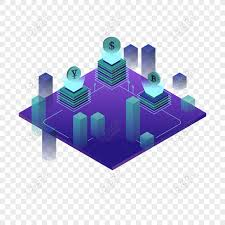
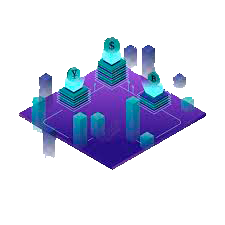
Section 3 add with design error

diff --git a/client/index.html b/client/index.html
@@ -25,7 +25,7 @@
         </div>
     </div>
       <!-- End section one-->
-    <div class="container mx-auto flex flex-col justify-between bg-no-repeat bg-top bg-[url('./src/SectionOne.jpg')] h-[32rem]">
+    <div class="container mb-[18rem] mx-auto flex flex-col justify-between bg-no-repeat bg-top bg-[url('./src/SectionOne.jpg')] h-[32rem]">
         
         <div>
             <div class="flex justify-center mt-[18rem]">
@@ -34,12 +34,14 @@
         </div>    
         <!--Section Two-->
 
-        <div class="flex mt-[6rem] bg-[#e2f3fd]">
-            <div class="w-1/2 h-[14rem] ml-[2rem] flex flex-col justify-center">
-                <h1 class="text-3xl font-semibold">Who we Are?</h1>
+        <div class="flex mt-[6rem]">
+            <div class="w-1/2 ml-[2rem] flex flex-col justify-center  bg-[#e2f3fd]">
+                <h1 class="pt-[8rem] text-3xl font-semibold">Who we Are?</h1>
+                <p class="mt-[1rem] text-xl">Lorem, ipsum dolor sit amet consectetur adipisicing elit. In, error officiis! Nostrum aliquam perferendis qui. Suscipit, reiciendis voluptatibus eaque ullam delectus, accusamus nobis quidem culpa labore, ducimus recusandae magnam cum?</p>
+                <p class="mt-[1rem] text-xl">Lorem, ipsum dolor sit amet consectetur adipisicing elit. In, error officiis! Nostrum aliquam perferendis qui. Suscipit, reiciendis voluptatibus eaque ullam delectus, accusamus nobis quidem culpa labore, ducimus recusandae magnam cum?</p>
                 <p class="mt-[1rem] text-xl">Lorem, ipsum dolor sit amet consectetur adipisicing elit. In, error officiis! Nostrum aliquam perferendis qui. Suscipit, reiciendis voluptatibus eaque ullam delectus, accusamus nobis quidem culpa labore, ducimus recusandae magnam cum?</p>
             </div>
-            <div class="w-1/2 relative flex justify-end ">
+            <div class="w-1/2 relative flex justify-end  bg-[#e2f3fd]">
                 <img class="absolute bottom-[0rem] right-3" src="./src/imgSection2.png" alt="Section Two Image">
             </div>
         </div>
@@ -48,17 +50,37 @@
     </div>
     <!-- Section Three-->
 
-        <div class="flex bg-no-repeat bg-top bg-[url('./src/Section3Final.jpg')] min-h-[12rem] mt-[9rem]">
-           <div class="pt-[8rem] pl-[15rem]">
-             <img src="./src/BlockSection3.png" alt="">
-           </div>
-           <div>
-            <h1 class="text-4xl text-white">What technology do we</h1>
-           </div>
-           
+        <div class="bg-no-repeat bg-top bg-[url('./src/Section3Final.jpg')] min-h-[25rem] mt-[9rem]">   
+
+            <div class="pt-[8rem]">
+                <img src="./src/blockchain2.png" class="w-[25rem] h-[25rem]" alt="">
+            </div>
+
         </div>
 
     <!-- End Section Three-->
 </body>
 </html>
-<!--bottom-[0.50rem] left-[60rem]-->
+<!--bottom-[0.50rem] left-[60rem]
+
+    <div class="w-2/4 pt-[15rem]">
+                    <div class="bg-[#000022]">
+                        <h1 class="text-4xl text-white">What technology do we</h1>
+                        <div class=" pt-8">
+                            <div class="flex justify-between">
+                                <img class="w-[5rem] h-5rem]" src="./src/BTC.png"m] alt="">
+                                <p class="text-white ml-4">Lorem, ipsum dolor sit amet consectetur adipisicing elit. In, error officiis! Nostrum aliquam perferendis qui. Suscipit, reiciendis voluptatibus eaque ullam delectus, accusamus nobis quidem culpa labore, ducimus recusandae magnam cum?</p>
+                            </div>
+                            <div class="flex justify-between mt-3">
+                                <img class="w-[5rem] h-[5rem]" src="./src/ETH.png" alt="">
+                                <p class="text-white ml-4">Lorem, ipsum dolor sit amet consectetur adipisicing elit. In, error officiis! Nostrum aliquam perferendis qui. Suscipit, reiciendis voluptatibus eaque ullam delectus, accusamus nobis quidem culpa labore, ducimus recusandae magnam cum?</p>
+                            </div>
+                            <div class="flex justify-between mt-3">
+                                <img class="w-[5rem] h-[5rem]" src="./src/TRX.png" alt="">
+                                <p class="text-white ml-4">Lorem, ipsum dolor sit amet consectetur adipisicing elit. In, error officiis! Nostrum aliquam perferendis qui. Suscipit, reiciendis voluptatibus eaque ullam delectus, accusamus nobis quidem culpa labore, ducimus recusandae magnam cum?</p>
+                            </div>
+                        </div>                    
+                    </div> 
+               </div>
+
+-->
